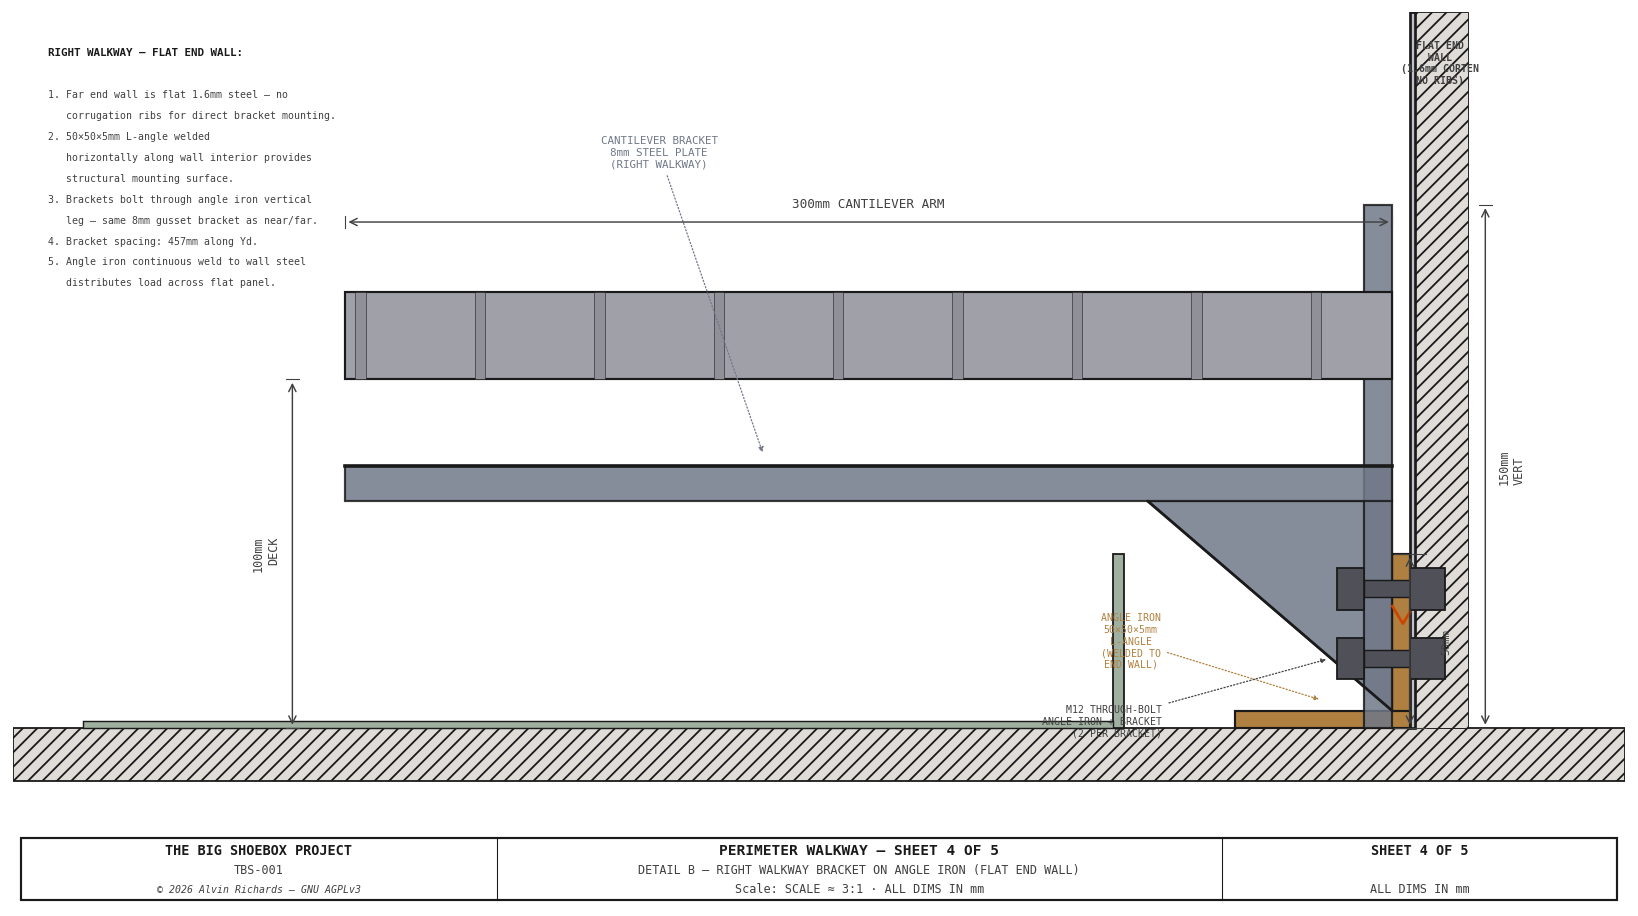
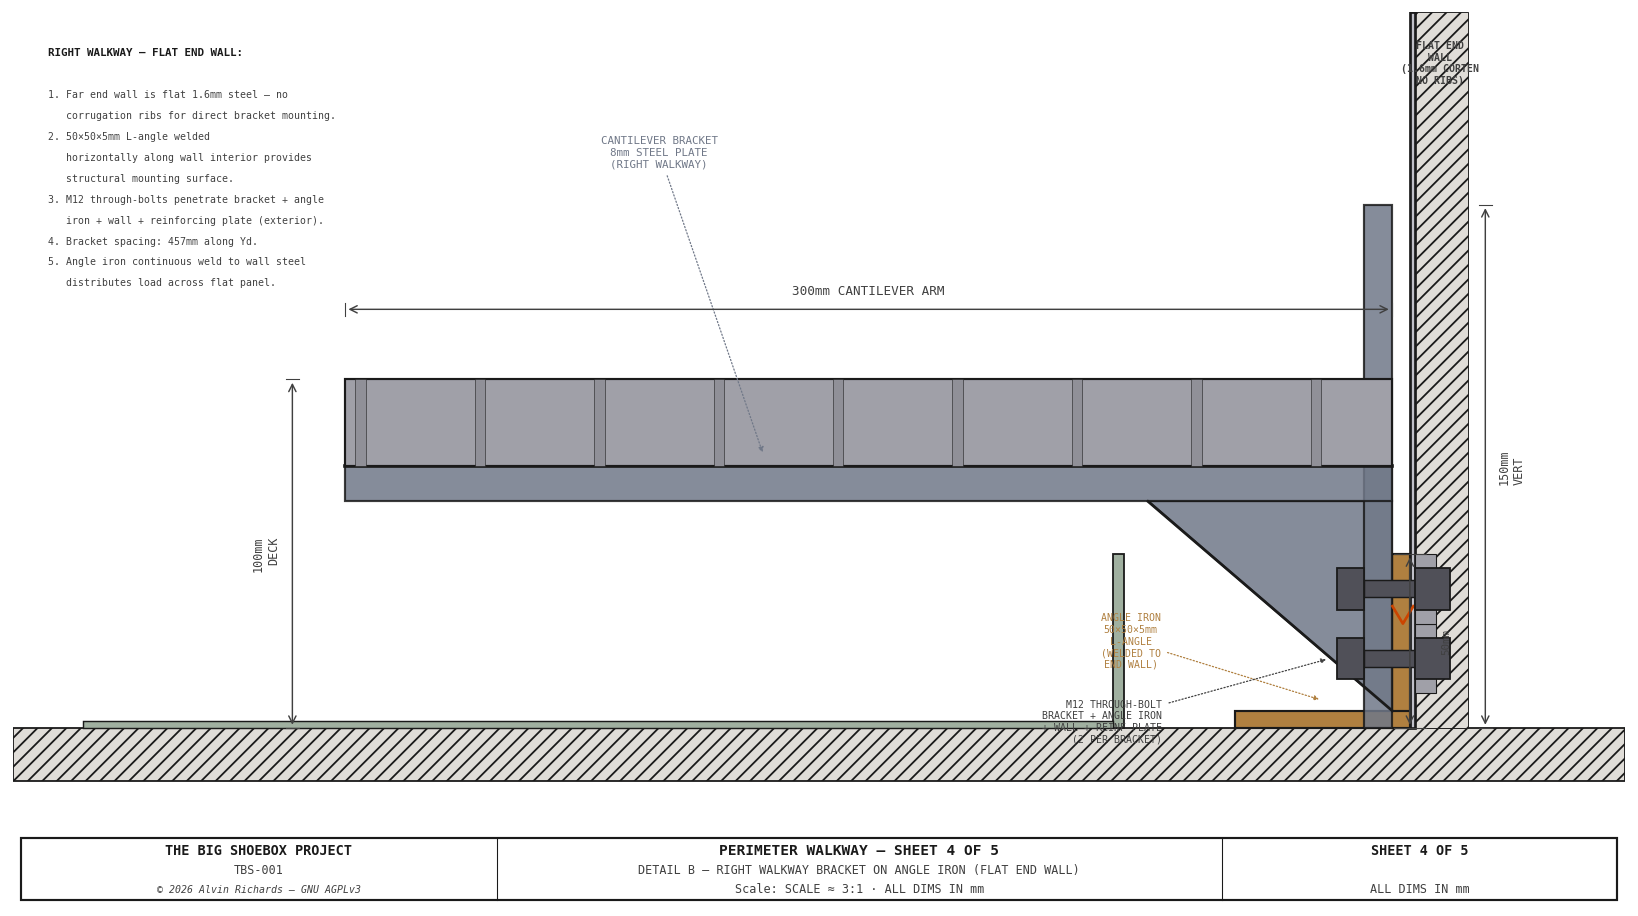
Fix walkway sheets 4 & 5: bolts through wall, left walkway support
Sheet 4 (right walkway): M12 bolts now penetrate through bracket +
angle iron + wall steel + reinforcing plate on exterior. Previously
stopped at the angle iron face.

Sheet 5 (left walkway): Three fixes:
- Bolts now penetrate full wall section (exterior panel through
  corrugation air gap to rib face, with reinforcing plate behind)
- Far walkway bracket arm shown at right end with break lines,
  making clear the left walkway is supported at BOTH ends
- Notes updated: "bridge, not cantilever"

Sheet 4 grating position also fixed (was Z=100-125, now Z=75-100
matching sheet 1 fix from previous commit).

diff --git a/generate_walkway_diagram.py b/generate_walkway_diagram.py
@@ -1022,24 +1022,30 @@ def sheet4():
     NUT_H  = 10
     BOLT_HEAD = 8
 
+    REINF_T = 6  # reinforcing plate behind wall exterior
+
     for bz in [bolt_z1, bolt_z2]:
         shank_hw = BOLT_R * 0.4
-        # Shank through bracket + angle iron
+        # Shank through: reinf plate + wall + angle iron vert leg + bracket plate
         ax.add_patch(Rectangle((sx(brkt_yd_l), sy(bz - shank_hw)),
-                                sx(BRKT_T + ANGLE_T), sy(shank_hw * 2),
+                                sx(BRKT_T + ANGLE_T + WALL_T + REINF_T), sy(shank_hw * 2),
                                 fc=C_BOLT, ec=C_OUT, lw=0.8, zorder=10))
         # Head on interior side (left of bracket)
         ax.add_patch(Rectangle((sx(brkt_yd_l - BOLT_HEAD), sy(bz - BOLT_R)),
                                 sx(BOLT_HEAD), sy(BOLT_D),
                                 fc=C_BOLT, ec=C_OUT, lw=1.0, zorder=10))
-        # Nut on wall side (right of angle iron)
-        ax.add_patch(Rectangle((sx(WALL_YD), sy(bz - BOLT_R)),
+        # Nut on exterior side (right of wall + reinforcing plate)
+        ax.add_patch(Rectangle((sx(WALL_YD + WALL_T), sy(bz - BOLT_R)),
                                 sx(NUT_H), sy(BOLT_D),
                                 fc=C_BOLT, ec=C_OUT, lw=1.0, zorder=10))
+        # Reinforcing plate (small rectangle on wall exterior)
+        ax.add_patch(Rectangle((sx(WALL_YD + WALL_T), sy(bz - BOLT_R - 4)),
+                                sx(REINF_T), sy(BOLT_D + 8),
+                                fc="#A0A0A8", ec=C_OUT, lw=0.6, zorder=9))
 
     leader(ax, sx(brkt_yd_l - BOLT_HEAD - 2), sy(bolt_z1),
            sx(brkt_yd_l - BOLT_HEAD - 50), sy(bolt_z1 - 18),
-           f"M{BOLT_D} THROUGH-BOLT\nANGLE IRON + BRACKET\n(2 PER BRACKET)",
+           f"M{BOLT_D} THROUGH-BOLT\nBRACKET + ANGLE IRON\n+ WALL + REINF PLATE\n(2 PER BRACKET)",
            color=C_DIM, fs=5.5,
            ha="right", va="center", arrow_style="-|>", font=FONT)
 
@@ -1086,8 +1092,9 @@ def sheet4():
                             fc=C_TRAY, ec=C_OUT, lw=0.8, zorder=4))
 
     # ── Grated deck ──────────────────────────────────────────────────────────
-    grate_bot = WALKWAY_H
-    grate_top = WALKWAY_H + WALKWAY_GRATE_T
+    # Grating sits on bracket arm: bottom at BRKT_ARM_Z (75mm), top at WALKWAY_H (100mm)
+    grate_bot = BRKT_ARM_Z  # = 75mm
+    grate_top = grate_bot + WALKWAY_GRATE_T  # = 100mm
     ax.add_patch(Rectangle((sx(arm_left), sy(grate_bot)),
                             sx(WALKWAY_W), sy(WALKWAY_GRATE_T),
                             fc=C_GRATE, ec=C_OUT, lw=1.2, zorder=7))
@@ -1103,7 +1110,7 @@ def sheet4():
                f"{BRKT_VERT}mm\nVERT", offset=sx(6), fs=6.5, right=True, font=FONT)
     draw_dim_h(ax, sx(arm_left), sx(arm_left + WALKWAY_W), sy(grate_top + 20),
                f"{WALKWAY_W}mm CANTILEVER ARM", offset=sy(6), fs=7, font=FONT)
-    draw_dim_v(ax, sx(arm_left - 15), sy(0), sy(grate_bot),
+    draw_dim_v(ax, sx(arm_left - 15), sy(0), sy(grate_top),
                f"{WALKWAY_H}mm\nDECK", offset=sx(6), fs=6.5, right=False, font=FONT)
     draw_dim_v(ax, sx(WALL_YD), sy(0), sy(ANGLE_LEG),
                f"{ANGLE_LEG}mm", offset=sx(15), fs=6, right=True, font=FONT)
@@ -1119,8 +1126,8 @@ def sheet4():
         f"2. {ANGLE_LEG}\u00d7{ANGLE_LEG}\u00d7{ANGLE_T}mm L-angle welded",
         f"   horizontally along wall interior provides",
         f"   structural mounting surface.",
-        f"3. Brackets bolt through angle iron vertical",
-        f"   leg \u2014 same 8mm gusset bracket as near/far.",
+        f"3. M12 through-bolts penetrate bracket + angle",
+        f"   iron + wall + reinforcing plate (exterior).",
         f"4. Bracket spacing: {WALKWAY_BRACKET_SPACING}mm along Yd.",
         f"5. Angle iron continuous weld to wall steel",
         f"   distributes load across flat panel.",
@@ -1178,7 +1185,7 @@ def sheet5():
     # Yd = horizontal axis (0 = pinhole wall)
     # Z = vertical axis
     YD_LO = -60
-    YD_HI = WALKWAY_W * 2 + 120  # room for left walkway + notes
+    YD_HI = WALKWAY_W * 2 + 200  # room for left walkway + far arm + notes
     Z_LO  = -40
     Z_HI  = WALKWAY_H + 100
 
@@ -1226,16 +1233,25 @@ def sheet5():
     NUT_H = 10
     BOLT_HEAD = 8
 
+    REINF_T = 6  # reinforcing plate on wall exterior
+    # Bolt path: head -> reinf plate -> wall panel -> air gap -> rib face -> bracket -> nut
+    # Wall exterior panel at ~ -CORR_DEPTH, rib face at ~ -rib_w/2
+    wall_ext_yd = -CORR_DEPTH  # exterior panel face
+
     for bz in [bolt_z1, bolt_z2]:
         shank_hw = BOLT_R * 0.4
-        # Bolt shank through rib + bracket
-        ax.add_patch(Rectangle((sx(-rib_w / 2), sy(bz - shank_hw)),
-                                sx(rib_w + BRKT_T / 2), sy(shank_hw * 2),
+        # Bolt shank — full penetration from wall exterior to bracket interior
+        ax.add_patch(Rectangle((sx(wall_ext_yd), sy(bz - shank_hw)),
+                                sx(-wall_ext_yd + BRKT_T / 2), sy(shank_hw * 2),
                                 fc=C_BOLT, ec=C_OUT, lw=0.8, zorder=10))
-        # Bolt head (behind wall / on reinforcing plate)
-        ax.add_patch(Rectangle((sx(-rib_w / 2 - BOLT_HEAD), sy(bz - BOLT_R)),
+        # Bolt head on exterior (behind reinforcing plate)
+        ax.add_patch(Rectangle((sx(wall_ext_yd - REINF_T - BOLT_HEAD), sy(bz - BOLT_R)),
                                 sx(BOLT_HEAD), sy(BOLT_D),
                                 fc=C_BOLT, ec=C_OUT, lw=1.0, zorder=10))
+        # Reinforcing plate on wall exterior
+        ax.add_patch(Rectangle((sx(wall_ext_yd - REINF_T), sy(bz - BOLT_R - 4)),
+                                sx(REINF_T), sy(BOLT_D + 8),
+                                fc="#A0A0A8", ec=C_OUT, lw=0.6, zorder=9))
         # Nut on interior side of bracket
         ax.add_patch(Rectangle((sx(BRKT_T / 2), sy(bz - BOLT_R)),
                                 sx(NUT_H), sy(BOLT_D),
@@ -1329,14 +1345,52 @@ def sheet5():
            color="#CC4400", fs=5.5,
            ha="left", va="center", arrow_style="-|>", font=FONT)
 
+    # ── Far walkway bracket arm (support at other end) ─────────────────────
+    # Show partial far walkway bracket arm at the right edge of the left walkway
+    # to make it clear the grating is supported at BOTH ends (bridge, not cantilever).
+    left_grate_yd_end = left_grate_yd_start + WALKWAY_W
+    far_arm_start = left_grate_yd_end - 30  # overlap the grating by 30mm
+    far_arm_w = 60  # show partial arm extending right
+    ax.add_patch(Rectangle((sx(far_arm_start), sy(arm_bot)),
+                            sx(far_arm_w), sy(ARM_DEPTH),
+                            fc=C_BRKT, ec=C_OUT, lw=1.2, zorder=6, alpha=0.85))
+    ax.plot([sx(far_arm_start), sx(far_arm_start + far_arm_w)],
+            [sy(BRKT_ARM_Z), sy(BRKT_ARM_Z)],
+            color=C_OUT, lw=2.0, zorder=7)
+
+    # Break lines on far arm (indicating it continues to far wall)
+    bk_yd = far_arm_start + far_arm_w
+    for z_val in np.linspace(arm_bot, BRKT_ARM_Z, 4):
+        ax.plot([sx(bk_yd - 2), sx(bk_yd + 2)],
+                [sy(z_val - 2), sy(z_val + 2)],
+                color=C_OUT, lw=0.8, zorder=10)
+
+    # Far butt joint line
+    ax.plot([sx(left_grate_yd_end), sx(left_grate_yd_end)],
+            [sy(0), sy(left_grate_top + 2)],
+            color=C_OUT, lw=1.5, ls=(0, (5, 3)), zorder=9)
+    ax.text(sx(left_grate_yd_end), sy(-5),
+            "FAR BUTT\nJOINT",
+            ha="center", va="top", fontsize=5.5, color=C_OUT,
+            **FONT, zorder=15)
+
+    # Far support highlight
+    ax.plot([sx(left_grate_yd_end - 30), sx(left_grate_yd_end + 5)],
+            [sy(BRKT_ARM_Z), sy(BRKT_ARM_Z)],
+            color="#CC4400", lw=2.5, zorder=10)
+    leader(ax, sx(left_grate_yd_end - 10), sy(BRKT_ARM_Z),
+           sx(left_grate_yd_end + 40), sy(BRKT_ARM_Z - 15),
+           f"FAR WALKWAY\nBRACKET ARM\n(SUPPORT #2)",
+           color="#CC4400", fs=5.5,
+           ha="left", va="center", arrow_style="-|>", font=FONT)
+
     # ── Unsupported span annotation ──────────────────────────────────────────
     span_y = left_grate_top + 35
-    left_grate_yd_end = left_grate_yd_start + WALKWAY_W
     ax.annotate("", xy=(sx(left_grate_yd_start), sy(span_y)),
                 xytext=(sx(left_grate_yd_end), sy(span_y)),
                 arrowprops=dict(arrowstyle="<->", color="#2060A0", lw=1.5, mutation_scale=10))
     ax.text(sx(left_grate_yd_start + WALKWAY_W / 2), sy(span_y + 5),
-            f"LEFT WALKWAY WIDTH = {WALKWAY_W}mm\n(SPANS {WALKWAY_LEFT_SPAN}mm BETWEEN\nNEAR/FAR BUTT JOINTS)",
+            f"LEFT WALKWAY = {WALKWAY_W}mm WIDE\nSUPPORTED AT BOTH ENDS\n(SPANS {WALKWAY_LEFT_SPAN}mm BETWEEN\nNEAR/FAR BUTT JOINTS)",
             ha="center", va="bottom", fontsize=6, color="#2060A0",
             fontweight="bold", **FONT, zorder=15)
 
@@ -1367,14 +1421,14 @@ def sheet5():
     draw_dim_v(ax, sx(-CORR_DEPTH - 10), sy(0), sy(grate_top),
                f"{int(grate_top)}mm\nTOP", offset=sx(6), fs=6, right=False, font=FONT)
     # Left walkway grate top (should match)
-    draw_dim_v(ax, sx(left_grate_yd_end + 15), sy(0), sy(left_grate_top),
+    draw_dim_v(ax, sx(left_grate_yd_end + 55), sy(0), sy(left_grate_top),
                f"{left_grate_top}mm\nTOP", offset=sx(6), fs=6, right=True, font=FONT)
     # Arm height
-    draw_dim_v(ax, sx(left_grate_yd_end + 15), sy(0), sy(BRKT_ARM_Z),
+    draw_dim_v(ax, sx(left_grate_yd_end + 55), sy(0), sy(BRKT_ARM_Z),
                f"{BRKT_ARM_Z}mm\nARM", offset=sx(30), fs=6, right=True, font=FONT)
 
     # ── Notes ────────────────────────────────────────────────────────────────
-    notes_x = sx(left_grate_yd_end + 60)
+    notes_x = sx(left_grate_yd_end + 100)
     notes_top = sy(Z_HI - 10)
     notes = [
         "LEFT WALKWAY \u2014 REMOVABLE LIFT-OUT:",
@@ -1385,10 +1439,11 @@ def sheet5():
         f"   colliding with left walkway at X=170\u2013470.",
         f"3. Left walkway MUST be removed before",
         f"   sliding panel to transport position.",
-        f"4. Grating rests on near/far walkway bracket",
-        f"   arms at the butt joints (X=470).",
+        f"4. Grating supported at BOTH ends: rests on",
+        f"   near + far walkway bracket arms at butt",
+        f"   joints (X=470). Bridge, not cantilever.",
         f"5. Standard grating ({WALKWAY_GRATE_T}mm) spans",
-        f"   {WALKWAY_LEFT_SPAN}mm unsupported gap.",
+        f"   {WALKWAY_LEFT_SPAN}mm between support points.",
         f"6. Both grate tops aligned at Z={int(grate_top)}mm.",
     ]
     for i, line in enumerate(notes):
